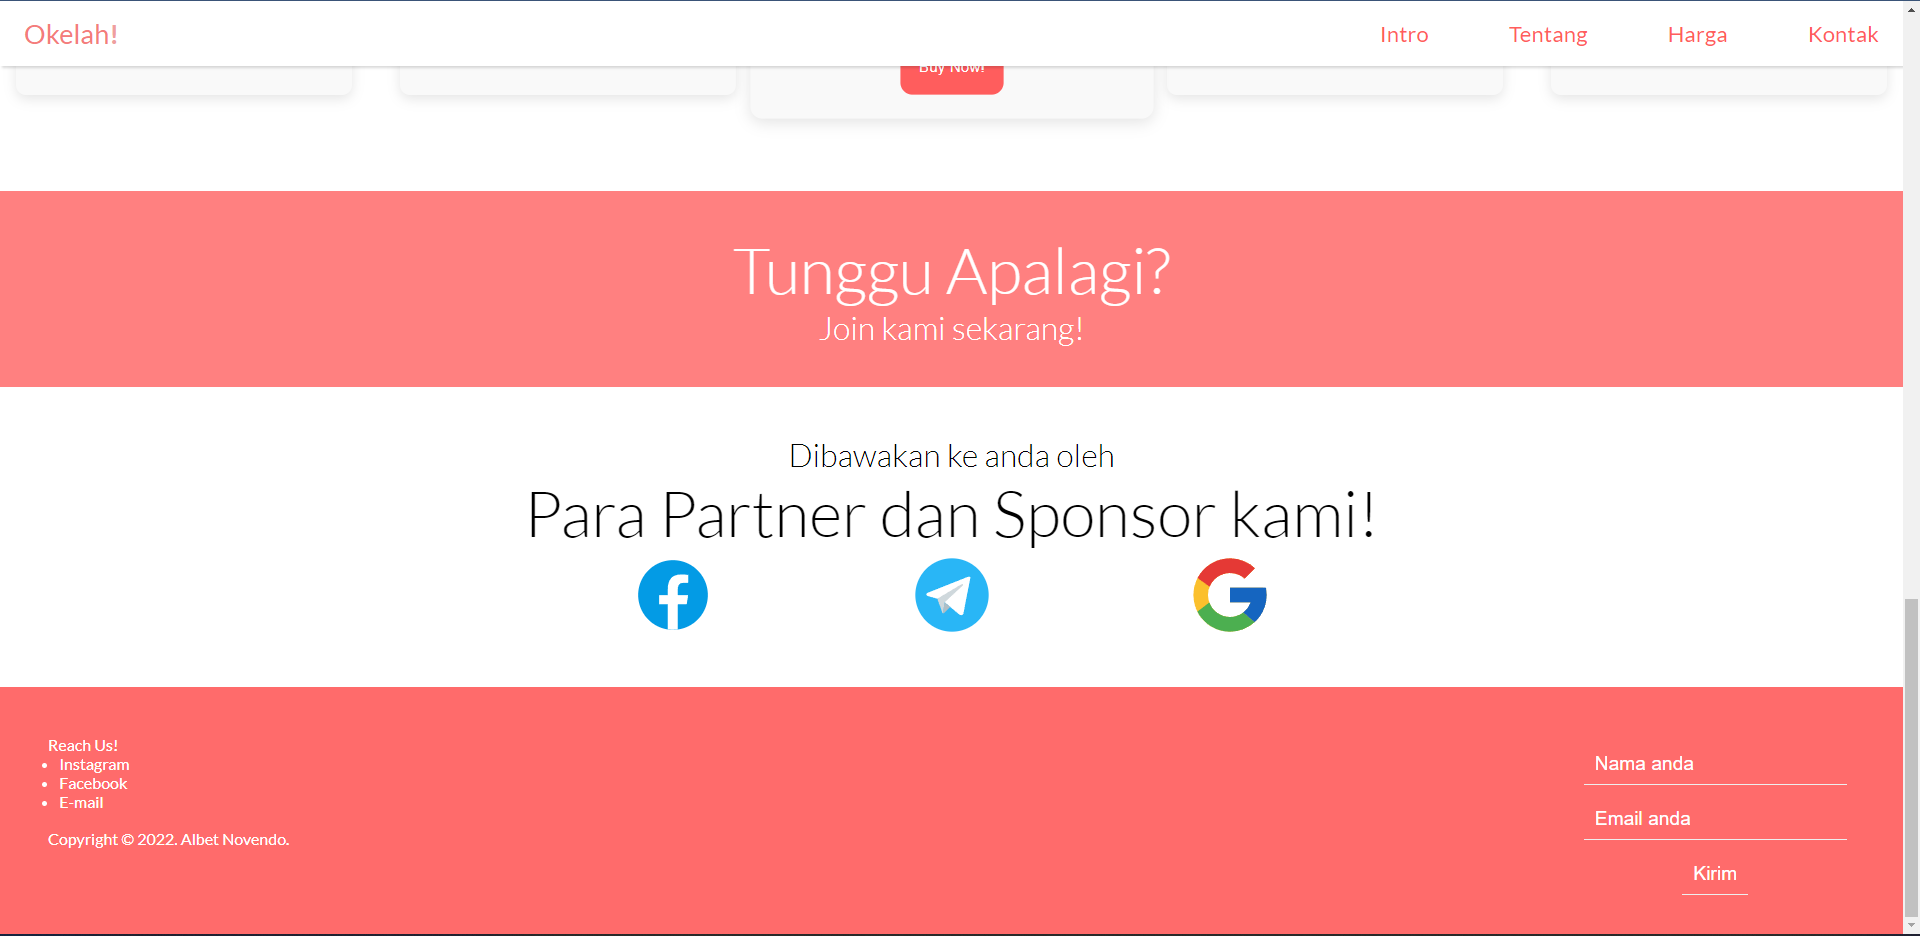
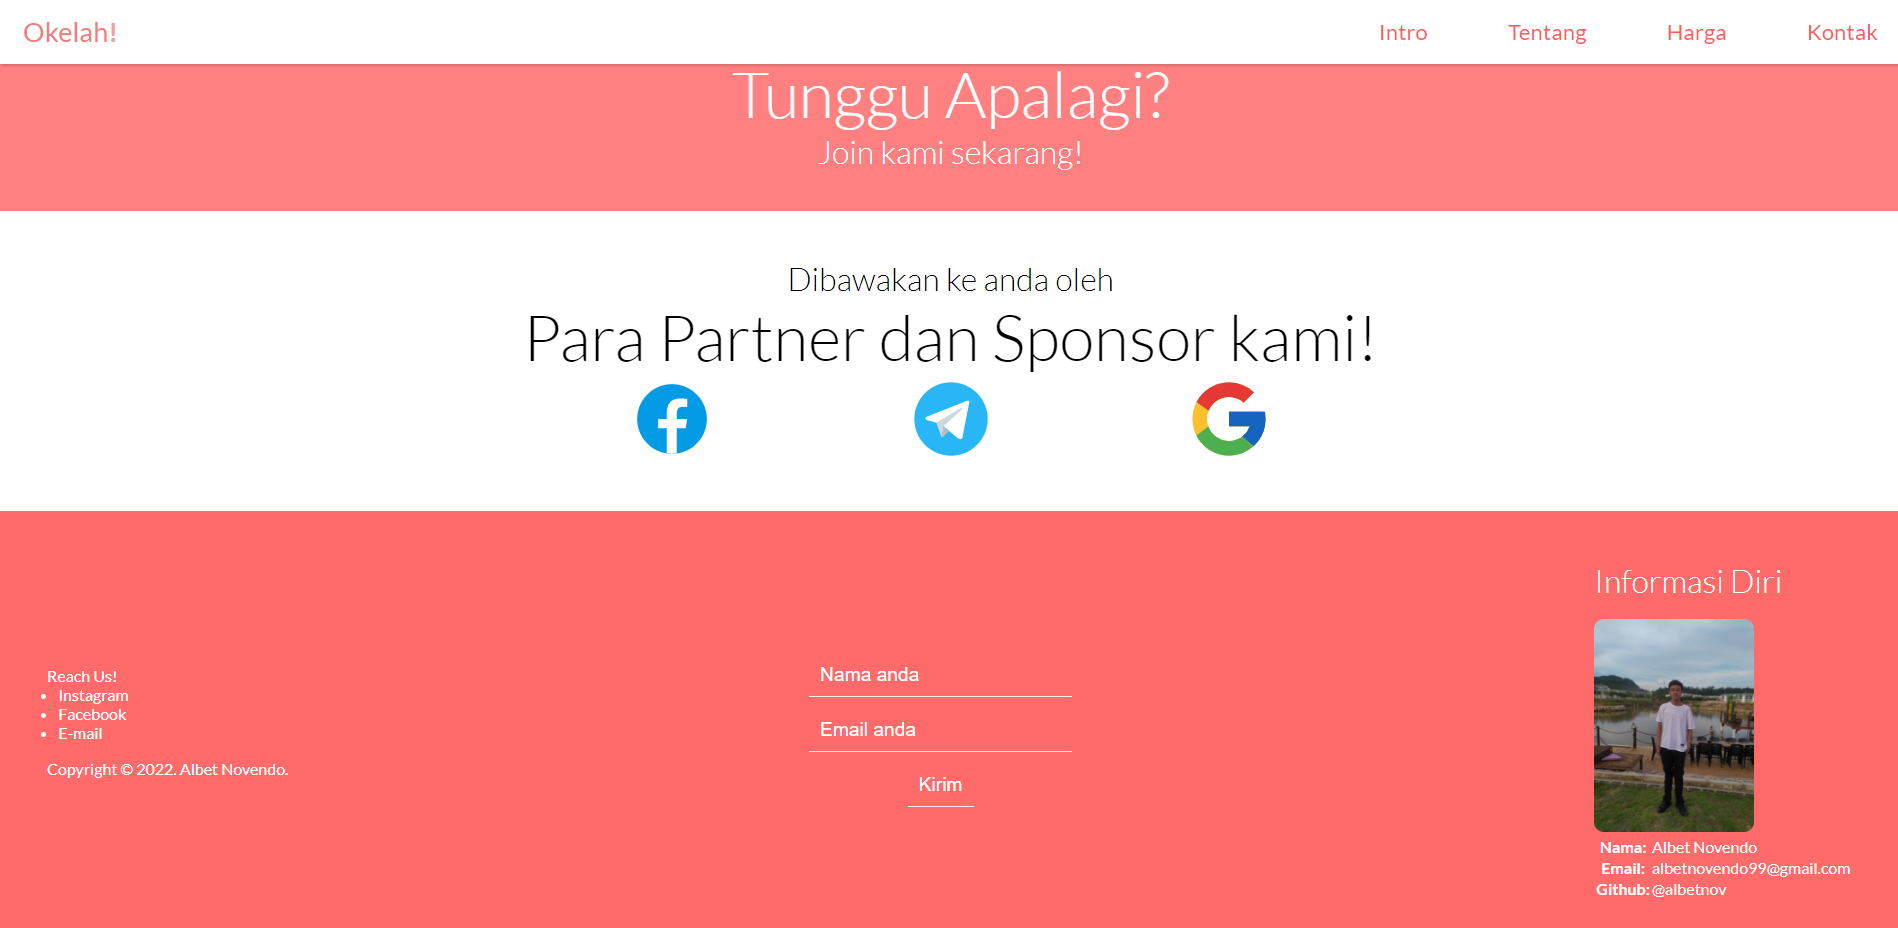
add personal info in aside footer

diff --git a/assets/style.css b/assets/style.css
@@ -412,5 +412,10 @@ footer {
     display: flex;
     flex-direction: row;
     justify-content: space-between;
+    align-items: center;
+  }
+
+  .profile-img {
+    max-width: 10rem;
   }
 }
